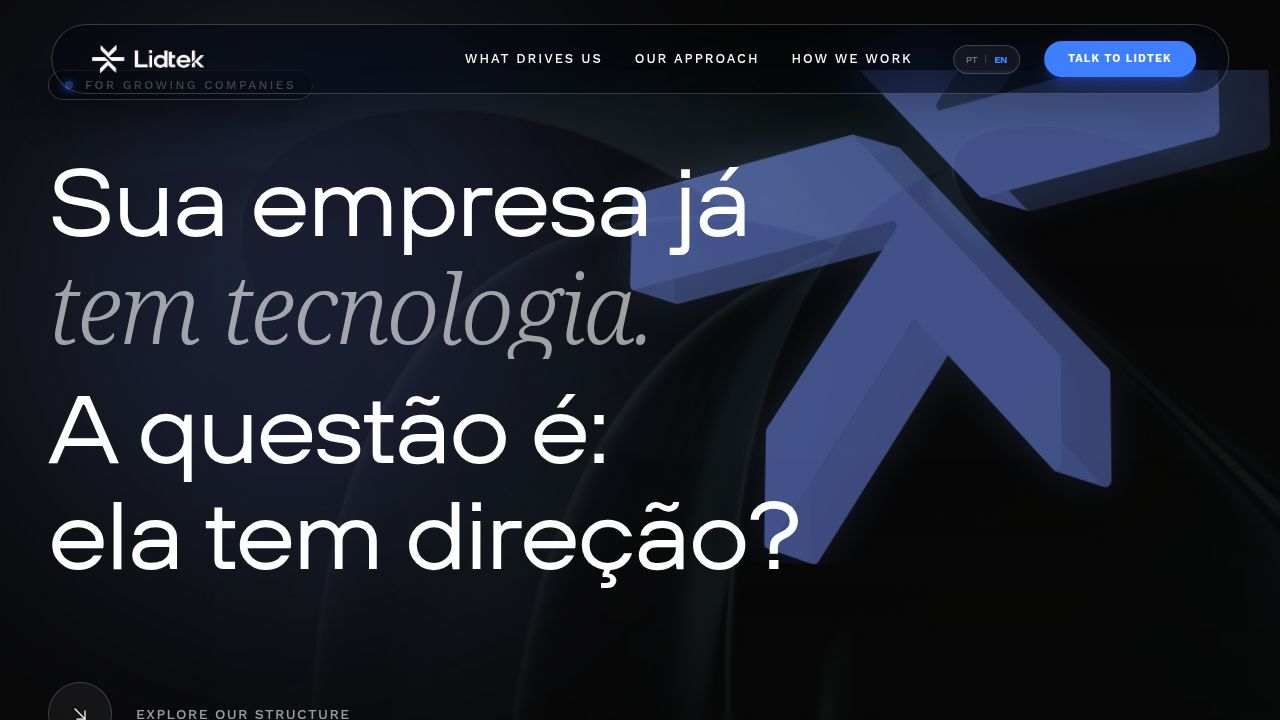
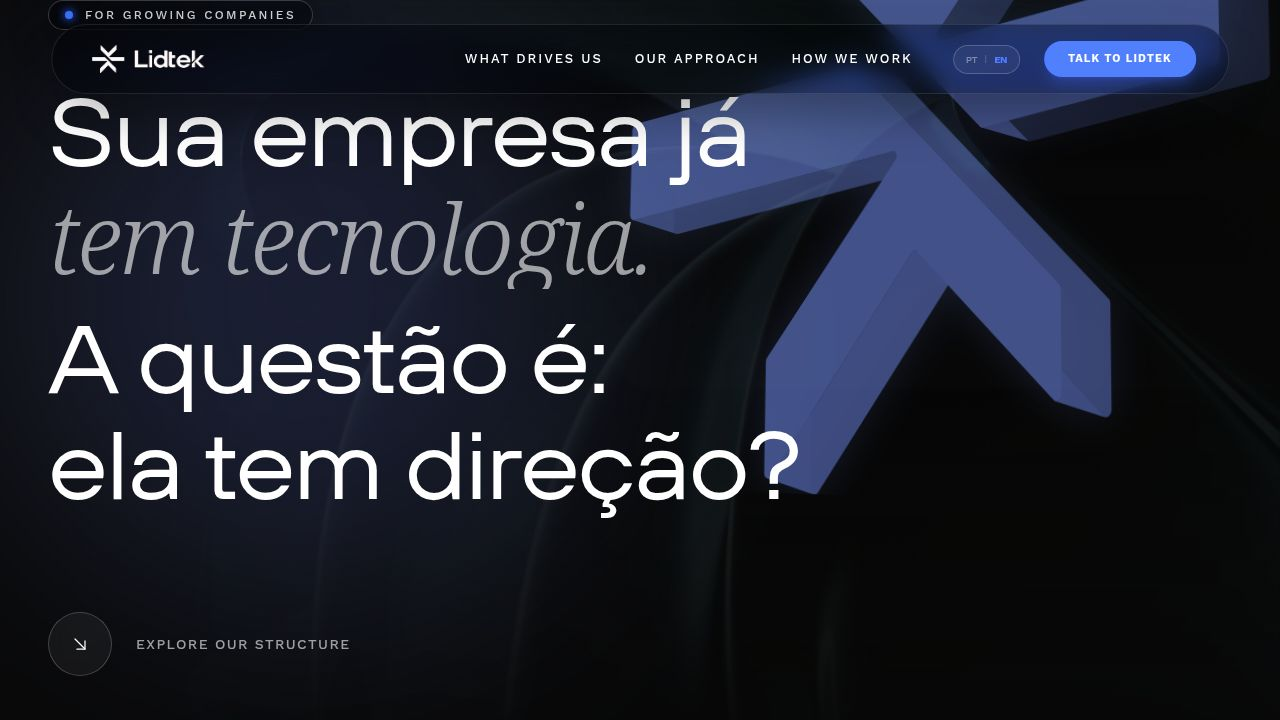
Improve navbar to be fixed and have a glass effect on scroll
Update Navbar component to fix it to the top on mobile, apply liquid glass effect with backdrop blur and saturation, and adjust styling for different themes.

Replit-Commit-Author: Agent
Replit-Commit-Session-Id: a339f43c-d23b-4dbc-8327-ef489580e34f
Replit-Commit-Checkpoint-Type: full_checkpoint
Replit-Commit-Event-Id: 66478bab-892a-4b0b-91e6-d05d55595ddf
Replit-Commit-Screenshot-Url: https://storage.googleapis.com/screenshot-production-us-central1/1bd49003-f8b5-4081-a1ec-b8d74c53421b/a339f43c-d23b-4dbc-8327-ef489580e34f/iU17tRg
Replit-Helium-Checkpoint-Created: true

diff --git a/client/src/components/layout/Navbar.tsx b/client/src/components/layout/Navbar.tsx
@@ -54,13 +54,13 @@ export function Navbar() {
   const borderClass = isDark ? "border-white/20" : "border-black/20";
   const logoClass = isDark ? "" : "invert";
   const glassClass = isDark 
-    ? "liquid-glass-dark border-white/5 shadow-2xl shadow-black/20" 
-    : "liquid-glass border-black/5 shadow-xl shadow-black/5";
+    ? "bg-black/40 backdrop-blur-[20px] saturate-[180%] border-white/10 shadow-2xl shadow-black/40" 
+    : "bg-white/40 backdrop-blur-[20px] saturate-[180%] border-black/5 shadow-xl shadow-black/5";
 
   return (
     <>
       <nav 
-        className={`fixed top-6 left-1/2 -translate-x-1/2 w-[92%] max-w-7xl z-[100] px-6 py-2.5 md:py-3 md:px-8 flex items-center justify-between transition-all duration-700 ease-[cubic-bezier(0.23,1,0.32,1)] rounded-full border backdrop-blur-md ${navClass} ${glassClass}`}
+        className={`fixed top-0 left-0 right-0 md:top-6 md:left-1/2 md:-translate-x-1/2 md:w-[92%] md:max-w-7xl z-[100] px-6 py-4 md:py-3 md:px-8 flex items-center justify-between transition-all duration-700 ease-[cubic-bezier(0.23,1,0.32,1)] md:rounded-full border-b md:border backdrop-blur-md ${navClass} ${glassClass}`}
       >
         <Link href="/" className="z-50 cursor-pointer p-2 transition-transform active:scale-95" onClick={() => setIsMenuOpen(false)}>
           <img src={logoWhite} alt="Lidtek Logo" className={`h-5 md:h-7 w-auto transition-all duration-500 ${logoClass}`} />
